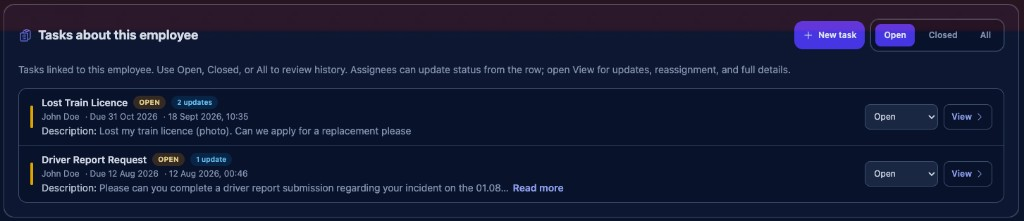
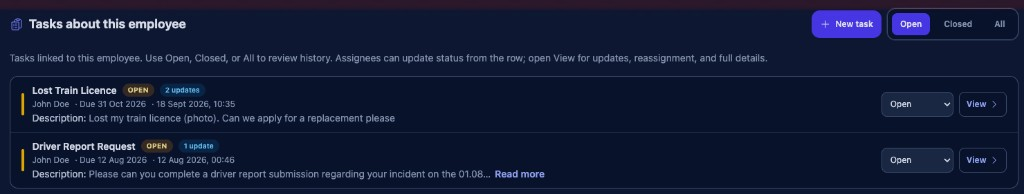
Replace task list screenshot with updated NewTaskList capture.
Use the sharper 1024×194 upload for the employee tasks section on the Task assignment page.

diff --git a/products/task-assignment.html b/products/task-assignment.html
@@ -306,7 +306,7 @@
       <div class="shot-grid shot-grid--full">
         <figure class="shot shot--full reveal">
           <div class="shot__frame shot__frame--fullwidth" style="--shot-display-width: 1024px" data-no-expand="">
-            <img src="../images/screens/tasks/task-employee-list.png?v=9736202" alt="Tasks linked to the employee record, filter by open, closed or all, with status and assignee at a glance." width="1024" height="221" loading="eager" decoding="sync" />
+            <img src="../images/screens/tasks/task-employee-list.png?v=9736202" alt="Tasks linked to the employee record, filter by open, closed or all, with status and assignee at a glance." width="1024" height="194" loading="eager" decoding="sync" />
           </div>
           <figcaption class="shot__caption">Tasks linked to the employee record, filter by open, closed or all, with status and assignee at a glance.</figcaption>
         </figure>
